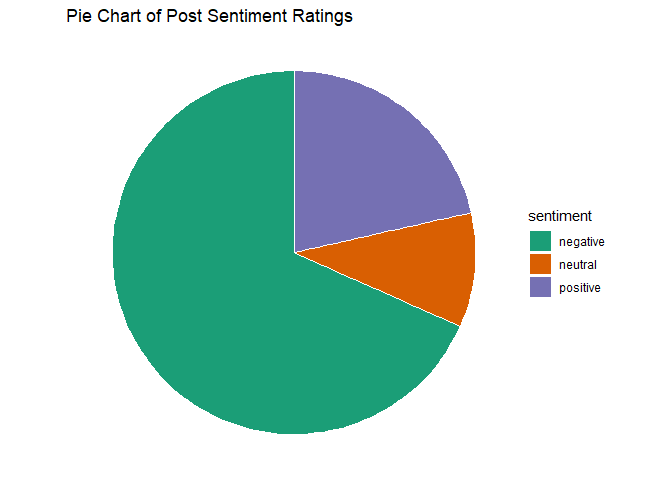
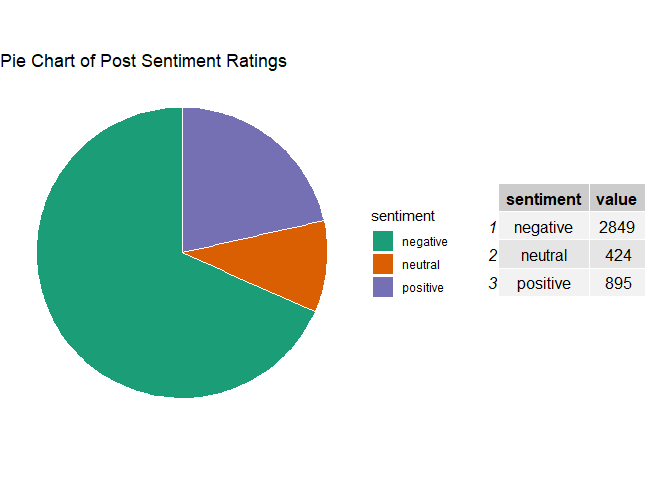
Fixed columns

diff --git a/README.md b/README.md
@@ -26,32 +26,20 @@ sentiment of each post from negative to positive to neutral.
 sentiment_counts <- as.data.frame(table(UC_posts_data$rate_sentiment)) %>% 
   rename(value = Freq) %>% 
   rename(sentiment = Var1)
-ggplot(sentiment_counts, aes(x= "", y= value, fill = sentiment)) +  # SENTIMENT PIE
+pie <- ggplot(sentiment_counts, aes(x= "", y= value, fill = sentiment)) +  # SENTIMENT PIE
   geom_bar(stat="identity", width=1, col = "white") +
   coord_polar("y", start=0) +
   labs(title = "Pie Chart of Post Sentiment Ratings") +
   theme_void() +
-  scale_fill_brewer(palette="Dark2")
+  scale_fill_brewer(palette="Dark2") 
+
+table <- tableGrob(sentiment_counts)
+grid.arrange(pie, table, widths =c(2,1))
 ```
 
 </details>
 
 ![](README_files/figure-commonmark/unnamed-chunk-3-1.png)
-
-<details class="code-fold">
-<summary>Show the code</summary>
-
-``` r
-kable(sentiment_counts)
-```
-
-</details>
-
-| sentiment | value |
-|:----------|------:|
-| negative  |  2849 |
-| neutral   |   424 |
-| positive  |   895 |
 
 As to be expected from online platforms and social media, the majority
 of posts created on the UC subreddits are negative in sentiment.
@@ -105,7 +93,7 @@ ggplot(UC_posts_data) +
 
 </details>
 
-![](README_files/figure-commonmark/unnamed-chunk-6-1.png)
+![](README_files/figure-commonmark/unnamed-chunk-5-1.png)
 
 #### Time
 
@@ -132,7 +120,7 @@ ggplot(daily_counts) +    # Times series for number of posts in time period
 
 </details>
 
-![](README_files/figure-commonmark/unnamed-chunk-7-1.png)
+![](README_files/figure-commonmark/unnamed-chunk-6-1.png)
 
 We can observe an expected dip in activity during the summer months.
 Let’s do the same for the comments in the time period that we were able
@@ -158,6 +146,6 @@ ggplot(daily_counts) +    # Times series for number of comments in time period (
 
 </details>
 
-![](README_files/figure-commonmark/unnamed-chunk-8-1.png)
+![](README_files/figure-commonmark/unnamed-chunk-7-1.png)
 
 Testing
